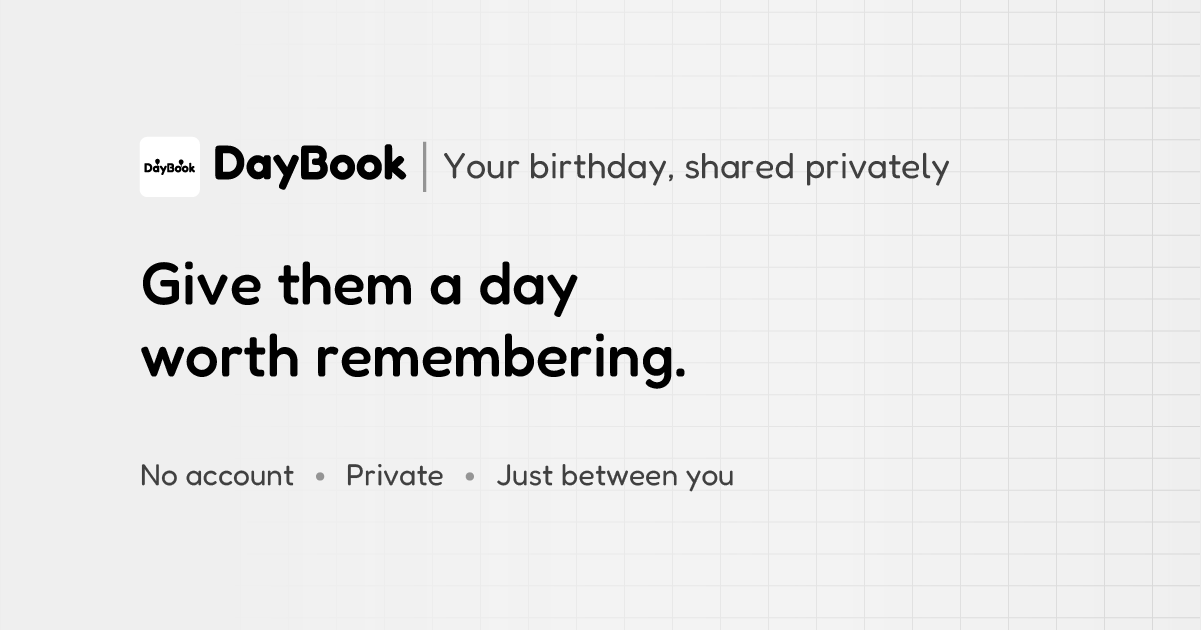
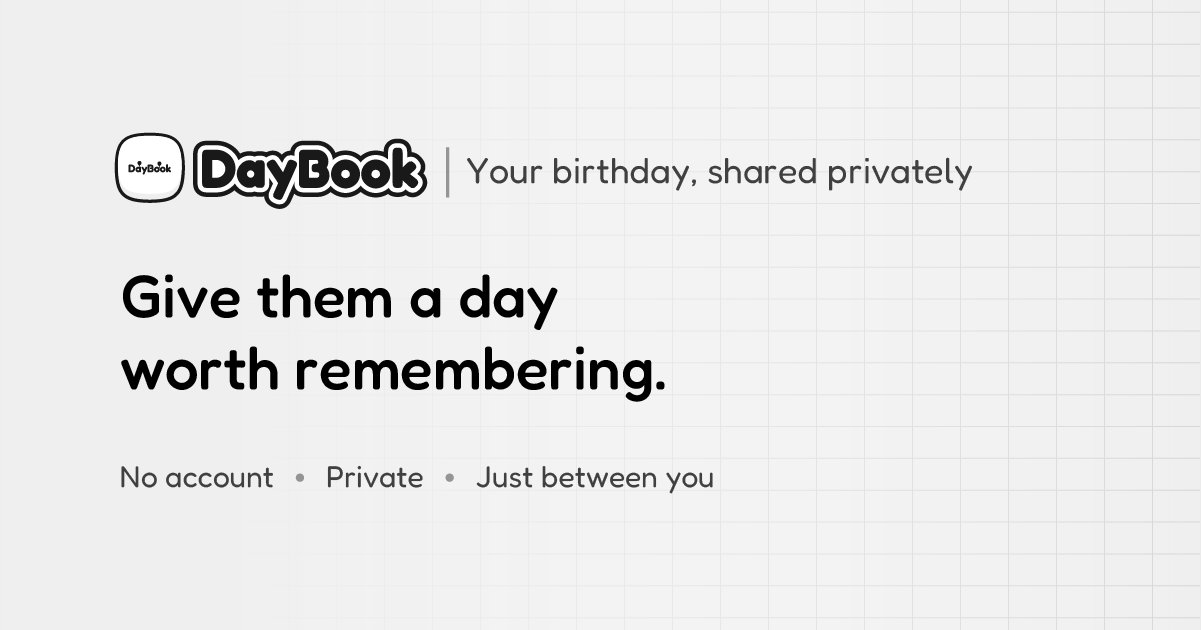
feat: update LogoIcon component with new design and improved SVG structure
refactor: simplify Footer component by removing unnecessary buttons and links

feat: add About navigation item and update PageLayout component

feat: enhance AboutScreen with Open Source section and GitHub link

feat: add skeleton loading state for Open Source section in AboutSkeleton

fix: improve ManageBirthdaysSkeleton layout with additional skeleton elements

style: apply smooth scrolling to html in global CSS

diff --git a/src/components/icons/logo-icon.tsx b/src/components/icons/logo-icon.tsx
@@ -5,52 +5,80 @@ export function LogoIcon({ className, ...props }: React.SVGProps<SVGSVGElement>)
 	return (
 		<svg
 			xmlns="http://www.w3.org/2000/svg"
-			viewBox="0 0 60 60"
-			width="60"
-			height="60"
-			className={cn("border-border/50 rounded-[8px] border shadow-md dark:border-none", className)}
+			viewBox="0 0 64 64"
+			width="64"
+			height="64"
+			className={cn("", className)}
 			{...props}
 		>
-			<rect fill="#fff" width="60" height="60" rx="7.76"></rect>
-			<g>
+			<defs>
+				<clipPath id="logo-clip-path">
+					<path
+						fill="none"
+						d="M62,32c-.19,10.62-1.25,19.15-6.15,23.85-4.7,4.9-13.23,6-23.85,6.15-10.62-.19-19.15-1.25-23.85-6.15C3.25,51.15,2.19,42.62,2,32,2.19,21.38,3.25,12.85,8.15,8.15,12.85,3.25,21.38,2.19,32,2c10.62.19,19.15,1.25,23.85,6.15C60.75,12.85,61.81,21.38,62,32Z"
+					></path>
+				</clipPath>
+			</defs>
+			<path
+				fill="#efefef"
+				d="M32,62.4c-11.06-.19-19.39-1.34-24.13-6.27C2.94,51.4,1.79,43.07,1.6,32,1.79,20.93,2.94,12.6,7.87,7.86,12.6,2.94,20.93,1.79,32,1.6c11.08.19,19.41,1.34,24.15,6.27C61.06,12.6,62.21,20.93,62.4,32c-.19,11.08-1.34,19.41-6.27,24.15C51.4,61.06,43.07,62.21,32,62.4h0Z"
+			></path>
+			<path
+				fill="#191919"
+				d="M32,2c10.62.19,19.15,1.25,23.85,6.15,4.9,4.7,6,13.23,6.15,23.85-.19,10.62-1.25,19.15-6.15,23.85-4.7,4.9-13.23,6-23.85,6.15-10.62-.19-19.15-1.25-23.85-6.15C3.25,51.15,2.19,42.62,2,32,2.19,21.38,3.25,12.85,8.15,8.15,12.85,3.25,21.38,2.19,32,2m0-.8h0C20.83,1.39,12.4,2.56,7.57,7.59,2.56,12.4,1.39,20.83,1.2,32,1.39,43.17,2.56,51.6,7.59,56.43c4.81,5,13.24,6.18,24.4,6.37,11.18-.19,19.61-1.36,24.44-6.39,5-4.81,6.18-13.24,6.37-24.4-.19-11.18-1.36-19.61-6.39-24.44C51.6,2.56,43.17,1.39,32,1.2Z"
+			></path>
+			<g clipPath="url(#logo-clip-path)">
 				<path
-					d="M21.91,26.22a2.2,2.2,0,1,0-4.4,0,3.43,3.43,0,0,0,1.86,2.84l-.12.12a.19.19,0,0,0,0,.19.18.18,0,0,0,.16.1h.23c.5,1.22.24,1.5-.13,1.88a2,2,0,0,0-.6,1,.17.17,0,0,0,.12.21h0a.17.17,0,0,0,.17-.13,1.68,1.68,0,0,1,.51-.83c.46-.47.73-.89.25-2.12h.09a.15.15,0,0,0,.15-.1.17.17,0,0,0,0-.19l-.12-.12A3.46,3.46,0,0,0,21.91,26.22ZM19.71,25a1.19,1.19,0,0,0-1.19,1.19.17.17,0,0,1-.17.18.18.18,0,0,1-.17-.18,1.55,1.55,0,0,1,1.53-1.54.18.18,0,0,1,.17.18A.18.18,0,0,1,19.71,25Z"
-					transform="translate(-2 -2)"
+					fill="#fff"
+					d="M62,26.38C61.81,37,60.75,45.53,55.85,50.23c-4.7,4.89-13.23,6-23.85,6.15-10.62-.19-19.15-1.26-23.85-6.15C3.25,45.53,2.19,37,2,26.38,2.19,15.75,3.25,7.22,8.15,2.52c4.7-4.89,13.23-6,23.85-6.14,10.62.18,19.15,1.25,23.85,6.14C60.75,7.22,61.81,15.75,62,26.38Z"
 				></path>
 			</g>
-			<g>
+			<g id="BAL1">
 				<path
-					d="M45.59,26.87a2.2,2.2,0,1,0-4.4,0,3.45,3.45,0,0,0,1.86,2.83l-.12.13a.17.17,0,0,0,0,.18.17.17,0,0,0,.16.11h.23c.5,1.22.24,1.5-.13,1.88a1.91,1.91,0,0,0-.6,1,.16.16,0,0,0,.12.2h0a.18.18,0,0,0,.17-.13,1.6,1.6,0,0,1,.51-.83c.46-.48.73-.9.25-2.12h.09a.17.17,0,0,0,.16-.11.17.17,0,0,0,0-.18l-.12-.13A3.43,3.43,0,0,0,45.59,26.87Zm-2.2-1.2a1.2,1.2,0,0,0-1.19,1.2A.17.17,0,0,1,42,27a.17.17,0,0,1-.17-.17,1.53,1.53,0,0,1,1.52-1.54.17.17,0,0,1,.17.17A.18.18,0,0,1,43.39,25.67Z"
-					transform="translate(-2 -2)"
+					fill="#191919"
+					d="M24,27.44a1.74,1.74,0,1,0-3.48,0A2.73,2.73,0,0,0,22,29.68l-.09.1a.12.12,0,0,0,0,.14A.14.14,0,0,0,22,30h.18c.4,1,.19,1.18-.1,1.48a1.63,1.63,0,0,0-.48.78.14.14,0,0,0,.1.16h0a.12.12,0,0,0,.13-.11,1.4,1.4,0,0,1,.41-.65c.36-.38.58-.71.2-1.67h.07a.14.14,0,0,0,.12-.09.12.12,0,0,0,0-.14l-.09-.1A2.73,2.73,0,0,0,24,27.44ZM22.3,26.5a.94.94,0,0,0-.94.94.13.13,0,1,1-.26,0,1.21,1.21,0,0,1,1.2-1.21.13.13,0,0,1,.13.13A.13.13,0,0,1,22.3,26.5Z"
+				></path>
+			</g>
+			<g id="BAL2">
+				<path
+					fill="#191919"
+					d="M42.73,28a1.74,1.74,0,1,0-3.48,0,2.73,2.73,0,0,0,1.47,2.24l-.09.09a.14.14,0,0,0,0,.15.13.13,0,0,0,.12.08h.18c.4,1,.19,1.19-.1,1.49a1.51,1.51,0,0,0-.47.78.13.13,0,0,0,.09.16h0a.12.12,0,0,0,.13-.1,1.35,1.35,0,0,1,.41-.65c.36-.38.58-.71.2-1.68h.07a.13.13,0,0,0,.12-.08.14.14,0,0,0,0-.15l-.09-.09A2.73,2.73,0,0,0,42.73,28ZM41,27a1,1,0,0,0-.94.95.13.13,0,0,1-.26,0A1.21,1.21,0,0,1,41,26.73a.13.13,0,0,1,.13.14A.13.13,0,0,1,41,27Z"
 				></path>
 			</g>
 			<path
-				d="M7.84,37.26a1.17,1.17,0,0,1-.64-.14.6.6,0,0,1-.26-.37,1.86,1.86,0,0,1-.06-.48v-7a2.31,2.31,0,0,1,0-.46.62.62,0,0,1,.25-.37,1.2,1.2,0,0,1,.67-.12h2.28a4.37,4.37,0,0,1,1.7.33,4.31,4.31,0,0,1,1.38.93A4.36,4.36,0,0,1,14.13,31a4.82,4.82,0,0,1,0,3.53,4.29,4.29,0,0,1-2.3,2.38,4.28,4.28,0,0,1-1.73.35Zm1-2h1.33A2.4,2.4,0,0,0,11.36,35a2.34,2.34,0,0,0,.85-.89,2.86,2.86,0,0,0,0-2.59,2.26,2.26,0,0,0-.85-.91,2.44,2.44,0,0,0-1.24-.32H8.8Z"
-				transform="translate(-2 -2)"
+				id="D"
+				fill="#191919"
+				d="M12.93,36.15a1,1,0,0,1-.51-.11.53.53,0,0,1-.2-.29,1.52,1.52,0,0,1-.05-.38V29.86a2.21,2.21,0,0,1,0-.37.53.53,0,0,1,.2-.29.94.94,0,0,1,.53-.1h1.8a3.37,3.37,0,0,1,3.16,2.11,3.65,3.65,0,0,1,.26,1.38A3.69,3.69,0,0,1,17.89,34a3.6,3.6,0,0,1-.73,1.13,3.48,3.48,0,0,1-1.09.75,3.37,3.37,0,0,1-1.36.27Zm.76-1.54h1.05a1.83,1.83,0,0,0,1.64-1,2,2,0,0,0,.25-1,2.07,2.07,0,0,0-.25-1,1.83,1.83,0,0,0-.67-.71,1.89,1.89,0,0,0-1-.26h-1Z"
 			></path>
 			<path
-				d="M20.49,37.24a1.17,1.17,0,0,1-.69-.16.47.47,0,0,1-.22-.41l.13-.22a1.53,1.53,0,0,1-.29.32,2.32,2.32,0,0,1-.57.33,2.11,2.11,0,0,1-.84.14,2.49,2.49,0,0,1-1.1-.25,3,3,0,0,1-.93-.71,3.67,3.67,0,0,1-.65-1A3.11,3.11,0,0,1,15.09,34a3.06,3.06,0,0,1,.24-1.2,3.57,3.57,0,0,1,.65-1,3.41,3.41,0,0,1,.93-.69,2.5,2.5,0,0,1,1.1-.26,2.08,2.08,0,0,1,.8.14,2.2,2.2,0,0,1,.55.31,1.81,1.81,0,0,1,.34.34l-.12-.17A.56.56,0,0,1,19.8,31a1.2,1.2,0,0,1,.71-.16,1.18,1.18,0,0,1,.65.14.58.58,0,0,1,.24.37,2.56,2.56,0,0,1,0,.49v4.4a2.52,2.52,0,0,1,0,.48.56.56,0,0,1-.24.36A1.25,1.25,0,0,1,20.49,37.24Zm-2.21-1.9a1.14,1.14,0,0,0,.61-.17,1.39,1.39,0,0,0,.43-.47,1.42,1.42,0,0,0,0-1.31,1.21,1.21,0,0,0-.45-.45,1.18,1.18,0,0,0-.62-.17,1.19,1.19,0,0,0-.64.18,1.24,1.24,0,0,0-.45.46,1.36,1.36,0,0,0-.17.67,1.24,1.24,0,0,0,.17.63,1.3,1.3,0,0,0,.47.46A1.31,1.31,0,0,0,18.28,35.34Z"
-				transform="translate(-2 -2)"
+				id="A"
+				fill="#191919"
+				d="M22.92,36.14a.91.91,0,0,1-.55-.13.36.36,0,0,1-.17-.32l.1-.18a1.21,1.21,0,0,1-.23.25,1.37,1.37,0,0,1-.45.26,1.62,1.62,0,0,1-.66.12,2,2,0,0,1-.87-.2,2.5,2.5,0,0,1-.74-.56,3.08,3.08,0,0,1-.51-.81,2.65,2.65,0,0,1-.19-1,2.47,2.47,0,0,1,.19-.94,2.69,2.69,0,0,1,.52-.8,2.42,2.42,0,0,1,.73-.55,1.88,1.88,0,0,1,.87-.2,1.67,1.67,0,0,1,.63.1,1.74,1.74,0,0,1,.43.25,1.37,1.37,0,0,1,.27.27l-.09-.14a.45.45,0,0,1,.17-.37,1,1,0,0,1,.56-.12.84.84,0,0,1,.51.11.41.41,0,0,1,.19.29,1.58,1.58,0,0,1,0,.38v3.48a1.64,1.64,0,0,1,0,.38.39.39,0,0,1-.19.28A1,1,0,0,1,22.92,36.14Zm-1.75-1.5a.87.87,0,0,0,.48-.14,1,1,0,0,0,.34-.37,1,1,0,0,0,.13-.51A1,1,0,0,0,22,33.1a1,1,0,0,0-.35-.36.92.92,0,0,0-.49-.13.94.94,0,0,0-.5.14,1,1,0,0,0-.36.36,1,1,0,0,0-.14.53,1,1,0,0,0,.14.5,1,1,0,0,0,.88.5Z"
 			></path>
 			<path
-				d="M28.8,31.43a1,1,0,0,0-.59-.51,1.19,1.19,0,0,0-.78-.11,1,1,0,0,0-.47.61l-1.18,2.65L24,31.28a1.07,1.07,0,0,0-.55-.51,1.14,1.14,0,0,0-.76.24q-.46.3-.51.57a1.07,1.07,0,0,0,.23.72l2.49,3.82-1.09,2.45a1.14,1.14,0,0,0-.13.76q.08.27.6.51A1.08,1.08,0,0,0,25,40c.17-.06.33-.26.47-.6l3.19-7.22A1.13,1.13,0,0,0,28.8,31.43Z"
-				transform="translate(-2 -2)"
+				id="Y"
+				fill="#191919"
+				d="M29.47,31.55c0-.14-.2-.27-.46-.4a.93.93,0,0,0-.62-.09.81.81,0,0,0-.37.48l-.93,2.1-1.43-2.21a.83.83,0,0,0-.43-.4.89.89,0,0,0-.6.19c-.24.15-.38.3-.4.45a.81.81,0,0,0,.18.57l2,3-.86,1.94a.91.91,0,0,0-.1.59c0,.15.2.28.47.41a.88.88,0,0,0,.61.1c.14,0,.26-.21.37-.48l2.52-5.69A.84.84,0,0,0,29.47,31.55Z"
 			></path>
 			<path
-				d="M30.45,37.26a1.15,1.15,0,0,1-.66-.15.64.64,0,0,1-.25-.38,2,2,0,0,1-.05-.5V29.31a1.86,1.86,0,0,1,.05-.48.62.62,0,0,1,.25-.37,1.16,1.16,0,0,1,.67-.15H33.6a2.49,2.49,0,0,1,1.34.37,2.57,2.57,0,0,1,.92,1,2.39,2.39,0,0,1,.33,1.29,2.09,2.09,0,0,1,0,.56A2.47,2.47,0,0,1,36,32a2.59,2.59,0,0,1-.3.46,2,2,0,0,1,.44.56,3.44,3.44,0,0,1,.28.69,3,3,0,0,1,.09.73,3,3,0,0,1-.81,2,2.73,2.73,0,0,1-.87.59,2.68,2.68,0,0,1-1.06.22Zm1-1.93H33.6a1.2,1.2,0,0,0,.45-.09.66.66,0,0,0,.36-.3,1.23,1.23,0,0,0,.14-.63,1.33,1.33,0,0,0-.06-.44.71.71,0,0,0-.18-.28.58.58,0,0,0-.24-.14,1.47,1.47,0,0,0-.29-.05h-.66a.84.84,0,0,1-.61-.19.91.91,0,0,1-.18-.64.83.83,0,0,1,.2-.63.91.91,0,0,1,.63-.18h.63a.73.73,0,0,0,.25-.08.41.41,0,0,0,.17-.21.9.9,0,0,0,.07-.4.79.79,0,0,0-.21-.62,1.23,1.23,0,0,0-.77-.19H31.42Z"
-				transform="translate(-2 -2)"
+				id="B"
+				fill="#191919"
+				d="M30.78,36.15a.87.87,0,0,1-.52-.12.42.42,0,0,1-.2-.3,1.61,1.61,0,0,1,0-.39V29.88a1.53,1.53,0,0,1,0-.38.42.42,0,0,1,.2-.29.88.88,0,0,1,.53-.12h2.47a2,2,0,0,1,1.06.29,2.1,2.1,0,0,1,.73.75,2,2,0,0,1,.26,1,1.64,1.64,0,0,1,0,.44,1.38,1.38,0,0,1-.15.4,2.06,2.06,0,0,1-.23.37,1.7,1.7,0,0,1,.35.45,2.52,2.52,0,0,1,.21.54,2.18,2.18,0,0,1,.08.57,2.5,2.5,0,0,1-.18.87,2,2,0,0,1-.47.71,2.18,2.18,0,0,1-.68.47,2.14,2.14,0,0,1-.84.17Zm.76-1.52h1.72a1.15,1.15,0,0,0,.36-.07.54.54,0,0,0,.28-.24,1,1,0,0,0,.11-.5,1.13,1.13,0,0,0,0-.35.54.54,0,0,0-.13-.21.47.47,0,0,0-.2-.12l-.23,0h-.52A.66.66,0,0,1,32.4,33a.76.76,0,0,1-.14-.51.68.68,0,0,1,.16-.5.73.73,0,0,1,.49-.14h.5a.34.34,0,0,0,.2-.06.45.45,0,0,0,.14-.16.93.93,0,0,0,0-.32.63.63,0,0,0-.17-.49.92.92,0,0,0-.61-.15H31.54Z"
 			></path>
 			<path
-				d="M40.39,37.36a3.11,3.11,0,0,1-1.18-.24,3.44,3.44,0,0,1-1.07-.67,3.18,3.18,0,0,1-.76-1,3.11,3.11,0,0,1-.29-1.35,3.22,3.22,0,0,1,.26-1.28,3.17,3.17,0,0,1,.72-1.05,3.43,3.43,0,0,1,1-.73,3.12,3.12,0,0,1,1.26-.26,3.18,3.18,0,0,1,1.65.44,3.31,3.31,0,0,1,1.18,1.2,3.18,3.18,0,0,1,.44,1.67,3.15,3.15,0,0,1-1,2.43,3.44,3.44,0,0,1-1.05.66A3.36,3.36,0,0,1,40.39,37.36Zm0-1.93a1.45,1.45,0,0,0,.62-.15,1.46,1.46,0,0,0,.53-.46,1.38,1.38,0,0,0,.21-.78,1.42,1.42,0,0,0-.17-.72,1.33,1.33,0,0,0-.49-.48,1.49,1.49,0,0,0-.71-.17,1.28,1.28,0,0,0-.68.18,1.33,1.33,0,0,0-.48.49,1.42,1.42,0,0,0-.19.71,1.34,1.34,0,0,0,.21.77,1.23,1.23,0,0,0,.53.46A1.45,1.45,0,0,0,40.37,35.43Z"
-				transform="translate(-2 -2)"
+				id="O1"
+				fill="#191919"
+				d="M38.62,36.23a2.38,2.38,0,0,1-.93-.19,2.65,2.65,0,0,1-.84-.53,2.38,2.38,0,0,1-.61-.82A2.45,2.45,0,0,1,36,33.63a2.69,2.69,0,0,1,.2-1,2.92,2.92,0,0,1,.57-.83,2.75,2.75,0,0,1,.82-.57,2.63,2.63,0,0,1,2.3.14,2.65,2.65,0,0,1,.93.95A2.73,2.73,0,0,1,41,34.71a2.49,2.49,0,0,1-.6.82,2.63,2.63,0,0,1-1.75.7Zm0-1.52a1.11,1.11,0,0,0,.49-.12,1.07,1.07,0,0,0,.42-.37,1,1,0,0,0,.17-.61,1,1,0,0,0-.14-.57,1,1,0,0,0-.38-.37,1.15,1.15,0,0,0-1.1,0,1,1,0,0,0-.38.39,1,1,0,0,0-.14.56,1.09,1.09,0,0,0,.16.61,1,1,0,0,0,.42.36A1.07,1.07,0,0,0,38.6,34.71Z"
 			></path>
 			<path
-				d="M47.45,37.36a3.11,3.11,0,0,1-1.18-.24,3.44,3.44,0,0,1-1.07-.67,3.18,3.18,0,0,1-.76-1,3.11,3.11,0,0,1-.29-1.35,3.22,3.22,0,0,1,.26-1.28,3.3,3.3,0,0,1,.71-1.05A3.61,3.61,0,0,1,46.17,31a3.12,3.12,0,0,1,1.26-.26,3.23,3.23,0,0,1,1.65.44,3.31,3.31,0,0,1,1.18,1.2,3.18,3.18,0,0,1,.44,1.67,3.15,3.15,0,0,1-1,2.43,3.44,3.44,0,0,1-1,.66A3.36,3.36,0,0,1,47.45,37.36Zm0-1.93a1.45,1.45,0,0,0,.62-.15,1.46,1.46,0,0,0,.53-.46,1.38,1.38,0,0,0,.21-.78,1.53,1.53,0,0,0-.17-.72,1.33,1.33,0,0,0-.49-.48,1.53,1.53,0,0,0-.72-.17,1.27,1.27,0,0,0-.67.18,1.4,1.4,0,0,0-.67,1.2,1.34,1.34,0,0,0,.21.77,1.23,1.23,0,0,0,.53.46A1.41,1.41,0,0,0,47.43,35.43Z"
-				transform="translate(-2 -2)"
+				id="O2"
+				fill="#191919"
+				d="M44.2,36.23a2.39,2.39,0,0,1-.94-.19,2.65,2.65,0,0,1-.84-.53,2.51,2.51,0,0,1-.61-.82,2.45,2.45,0,0,1-.22-1.06,2.69,2.69,0,0,1,.2-1,2.92,2.92,0,0,1,.57-.83,2.75,2.75,0,0,1,.82-.57,2.55,2.55,0,0,1,1-.2,2.5,2.5,0,0,1,1.3.34,2.65,2.65,0,0,1,.93.95,2.46,2.46,0,0,1,.35,1.32,2.53,2.53,0,0,1-.22,1.09,2.49,2.49,0,0,1-.6.82,2.52,2.52,0,0,1-.83.52A2.46,2.46,0,0,1,44.2,36.23Zm0-1.52a1.14,1.14,0,0,0,.49-.12,1.11,1.11,0,0,0,.41-.37,1,1,0,0,0,.17-.61,1,1,0,0,0-.14-.57,1,1,0,0,0-.38-.37,1,1,0,0,0-.56-.14,1,1,0,0,0-.92.53,1.13,1.13,0,0,0-.14.56,1.09,1.09,0,0,0,.16.61,1,1,0,0,0,.42.36A1.11,1.11,0,0,0,44.18,34.71Z"
 			></path>
 			<path
-				d="M56.7,35.52a1.08,1.08,0,0,1,.42.66,1,1,0,0,1-.34.72,1.64,1.64,0,0,1-.49.39.53.53,0,0,1-.41,0A1.72,1.72,0,0,1,55.4,37l-2-1.76v1.1a2.29,2.29,0,0,1,0,.47.54.54,0,0,1-.24.35,1.24,1.24,0,0,1-.67.14,1.2,1.2,0,0,1-.66-.14.56.56,0,0,1-.24-.35,2.44,2.44,0,0,1-.05-.48V28.93a2.44,2.44,0,0,1,.05-.48.61.61,0,0,1,.25-.36,1.23,1.23,0,0,1,.67-.13,1.19,1.19,0,0,1,.65.13.56.56,0,0,1,.24.36,2.49,2.49,0,0,1,0,.49v3.85l1.42-1.38a1.56,1.56,0,0,1,.47-.34.61.61,0,0,1,.44,0,1.2,1.2,0,0,1,.45.35,1.14,1.14,0,0,1,.4.72,1.14,1.14,0,0,1-.4.66L54.83,34Z"
-				transform="translate(-2 -2)"
+				id="K"
+				fill="#191919"
+				d="M51.5,34.78a.81.81,0,0,1,.32.52.8.8,0,0,1-.26.57,1.45,1.45,0,0,1-.39.3.36.36,0,0,1-.32,0,1.72,1.72,0,0,1-.38-.26L48.9,34.53v.86a1.53,1.53,0,0,1,0,.38.39.39,0,0,1-.19.27,1.28,1.28,0,0,1-1,0,.39.39,0,0,1-.19-.28,1.53,1.53,0,0,1,0-.38V29.57a1.45,1.45,0,0,1,0-.37.48.48,0,0,1,.2-.29,1,1,0,0,1,.52-.1.93.93,0,0,1,.51.1.43.43,0,0,1,.19.29,1.51,1.51,0,0,1,0,.39v3L50,31.53a1.26,1.26,0,0,1,.37-.26.47.47,0,0,1,.35,0,1,1,0,0,1,.36.27,1,1,0,0,1,.31.57.89.89,0,0,1-.31.52l-1.08,1Z"
 			></path>
 		</svg>
 	);

diff --git a/src/components/layout/footer.tsx b/src/components/layout/footer.tsx
@@ -1,49 +1,26 @@
-import { GithubIcon } from "@/components/icons/github-icon";
 import { AnimateIcon } from "@/components/ui/animate-icon";
 import { BotIcon } from "@/components/ui/animated-icons/bot-icon";
-import { Button } from "@/components/ui/button";
 import { VisitorTracker } from "@/components/visitor-tracker";
-import { APP_INFO } from "@/constants/app-info";
-import { Link } from "react-router-dom";
 
 export function Footer() {
 	return (
 		<footer className="text-muted-foreground mt-auto flex w-full flex-col items-center gap-3 text-sm sm:flex-row sm:justify-between">
 			<VisitorTracker className="justify-center" />
 
-			<div className="flex flex-1 flex-col items-center justify-end gap-1 sm:items-end">
-				<div className="flex flex-wrap items-center justify-center sm:justify-end">
-					<Button variant="ghost" size="sm" asChild>
-						<a
-							href="https://github.com/nmrisrl11/day-book-app"
-							target="_blank"
-							rel="noopener noreferrer"
-							title="View GitHub Repository"
-						>
-							<GithubIcon aria-hidden="true" className="mr-1 h-4 w-4" />
-							GitHub Repository
-						</a>
-					</Button>
-					<Button variant="ghost" size="sm" asChild>
-						<Link to="/about">About {APP_INFO.name}</Link>
-					</Button>
-				</div>
-
-				<span className="text-[0.8rem]">
-					Developed by:
-					<AnimateIcon animateOnHover asChild>
-						<a
-							href="https://www.nmrisrl.dev/"
-							target="_blank"
-							rel="noopener noreferrer"
-							title="Visit Developer's Website"
-							className="ml-1 inline-flex items-center font-medium transition-colors hover:text-slate-800 dark:hover:text-slate-200"
-						>
-							Nomer with <BotIcon className="ml-1 h-4 w-4" />
-						</a>
-					</AnimateIcon>
-				</span>
-			</div>
+			<span className="text-[0.8rem]">
+				Developed by:
+				<AnimateIcon animateOnHover asChild>
+					<a
+						href="https://www.nmrisrl.dev/"
+						target="_blank"
+						rel="noopener noreferrer"
+						title="Visit Developer's Website"
+						className="ml-1 inline-flex items-center font-medium transition-colors hover:text-slate-800 dark:hover:text-slate-200"
+					>
+						Nomer with <BotIcon className="ml-1 h-4 w-4" />
+					</a>
+				</AnimateIcon>
+			</span>
 		</footer>
 	);
 }

diff --git a/src/features/about/about-screen.tsx b/src/features/about/about-screen.tsx
@@ -1,3 +1,4 @@
+import { GithubIcon } from "@/components/icons/github-icon";
 import { LogoIcon } from "@/components/icons/logo-icon";
 import { LineNav, type LineNavItem } from "@/components/line-nav";
 import { MobileLineNav } from "@/components/mobile-line-nav";
@@ -25,6 +26,7 @@ export function AboutScreen() {
 	const navItems: LineNavItem[] = [
 		{ id: "overview", label: "Overview" },
 		{ id: "features", label: "Features" },
+		{ id: "open-source", label: "Open Source" },
 		{
 			id: "whats-new",
 			label: "What's New",
@@ -38,6 +40,7 @@ export function AboutScreen() {
 	const trackedIds = [
 		"overview",
 		"features",
+		"open-source",
 		"whats-new",
 		...visibleReleases.map((r) => `changelog-${r.version}`),
 	];
@@ -122,6 +125,35 @@ export function AboutScreen() {
 						your IP address into an irreversible hash (SHA-256) before it ever touches our servers.
 						No Personally Identifiable Information (PII) is ever saved.
 					</p>
+				</section>
+
+				{/* Open Source Section */}
+				<section
+					id="open-source"
+					className="bg-card border-border flex scroll-mt-24 flex-col gap-4 rounded-3xl border p-6 sm:p-8"
+				>
+					<div className="flex items-center gap-3">
+						<div className="bg-primary/10 text-primary flex h-10 w-10 shrink-0 items-center justify-center rounded-full">
+							<GithubIcon className="h-5 w-5" />
+						</div>
+						<h2 className="text-foreground text-2xl font-semibold">Open Source</h2>
+					</div>
+					<p className="text-muted-foreground text-base leading-relaxed">
+						{APP_INFO.name} is a completely open-source project. We believe in transparent,
+						local-first architecture where you own your data. Developers and privacy advocates are
+						highly encouraged to explore the codebase, understand how data is stored, and contribute
+						to the ecosystem!
+					</p>
+					<Button variant="outline" className="mt-2 w-fit" asChild>
+						<a
+							href="https://github.com/nmrisrl11/day-book-app"
+							target="_blank"
+							rel="noopener noreferrer"
+						>
+							<GithubIcon aria-hidden="true" className="mr-2 h-4 w-4" />
+							View Repository on GitHub
+						</a>
+					</Button>
 				</section>
 
 				{/* Changelog Section */}

diff --git a/src/App.tsx b/src/App.tsx
@@ -2,7 +2,7 @@ import { bind, setEnabled, setVolume } from "cuelume";
 import { GooeyToaster } from "goey-toast";
 import { NuqsAdapter } from "nuqs/adapters/react";
 import { lazy, Suspense, useEffect } from "react";
-import { BrowserRouter, Route, Routes } from "react-router-dom";
+import { BrowserRouter, Route, Routes, useLocation } from "react-router-dom";
 import { Footer } from "./components/layout/footer";
 import { PageLayout } from "./components/layout/page-layout";
 import { PWAPrompt } from "./components/pwa-prompt";
@@ -80,8 +80,17 @@ function App() {
 		return () => window.removeEventListener("keydown", handleKeyDown);
 	}, []);
 
+	function ScrollToTop() {
+		const { pathname } = useLocation();
+		useEffect(() => {
+			window.scrollTo(0, 0);
+		}, [pathname]);
+		return null;
+	}
+
 	return (
 		<BrowserRouter>
+			<ScrollToTop />
 			<NuqsAdapter>
 				<PageLayout>
 					<Routes>

diff --git a/src/features/about/components/about-skeleton.tsx b/src/features/about/components/about-skeleton.tsx
@@ -44,6 +44,16 @@ export function AboutSkeleton() {
 					<Skeleton className="h-20 w-full rounded-md" />
 				</section>
 
+				{/* Open Source Section */}
+				<section className="bg-card border-border flex flex-col gap-4 rounded-3xl border p-6 sm:p-8">
+					<div className="flex items-center gap-3">
+						<Skeleton className="h-10 w-10 rounded-full" />
+						<Skeleton className="h-8 w-40 rounded-md" />
+					</div>
+					<Skeleton className="h-20 w-full rounded-md" />
+					<Skeleton className="mt-2 h-10 w-64 rounded-md" />
+				</section>
+
 				{/* Changelog Section */}
 				<section className="flex flex-col gap-8">
 					<Skeleton className="h-8 w-40 rounded-md" />

diff --git a/src/features/management/components/manage-birthdays-skeleton.tsx b/src/features/management/components/manage-birthdays-skeleton.tsx
@@ -19,9 +19,14 @@ export function ManageBirthdaysSkeleton() {
 					<Skeleton className="h-8 w-full rounded-lg sm:flex-1" />
 					<div className="flex flex-wrap items-center gap-2">
 						<Skeleton className="h-8 w-32 rounded-lg" />
+						<Skeleton className="h-8 w-32 rounded-lg" />
 						<Skeleton className="h-8 w-40 rounded-lg" />
-						<Skeleton className="h-8 w-10 rounded-lg" />
 					</div>
+				</div>
+
+				<div className="flex items-center justify-between px-1">
+					<Skeleton className="h-9 w-20 rounded-lg" />
+					<Skeleton className="h-9 w-15 rounded-lg" />
 				</div>
 
 				{/* List Items */}

diff --git a/src/components/layout/page-layout.tsx b/src/components/layout/page-layout.tsx
@@ -1,6 +1,6 @@
 import { Logo } from "@/components/icons/logo";
 import { Button } from "@/components/ui/button";
-import { BookUserIcon, SettingsIcon } from "lucide-react";
+import { BookUserIcon, InfoIcon, SettingsIcon } from "lucide-react";
 import React from "react";
 import { Link, useLocation } from "react-router-dom";
 
@@ -9,6 +9,7 @@ interface PageLayoutProps {
 }
 
 const NAV_ITEMS = [
+	{ name: "About", path: "/about", icon: InfoIcon, isIcon: true },
 	{ name: "Birthdays", path: "/manage", icon: BookUserIcon },
 	{ name: "Settings", path: "/settings", icon: SettingsIcon, isIcon: true },
 ];

diff --git a/src/index.css b/src/index.css
@@ -153,7 +153,7 @@
 	}
 
 	html {
-		@apply font-sans;
+		@apply scroll-smooth font-sans;
 	}
 
 	button:not(:disabled),

diff --git a/PENDING_CHANGES.md b/PENDING_CHANGES.md
@@ -2,12 +2,17 @@
 
 ## Added
 
+- **Open Source Section** — Added a dedicated Open Source section to the About page and moved the GitHub link from the footer to the main navigation for better discoverability.
 - **Offline Status Notifications** — The app will now instantly notify you with a beautiful toast when you lose connection, and celebrate when you are back online.
 - **iOS PWA Install Instructions** — iPhone and iPad users will now receive a helpful, tailored prompt instructing them exactly how to install DayBook to their home screen using the Share menu.
 - **"Me" Relationship** — Added "Me" to the relationship options so users can easily track their own birthdays.
 - **Days Until Indicator** — Upcoming birthdays now display precisely how many days are left (e.g., "Today", "Tomorrow", "In 4 days") alongside the age.
 
 ## Improved
+
+- **Smooth Navigation** — Clicking "About" from the footer now automatically scrolls you perfectly to the top of the page.
+- **In-Page Anchor Links** — Clicking sections in the "On this page" menu now uses a beautiful smooth-scroll animation instead of instantly jumping.
+- **Updated Logo** — Swapped out the old logo for a crisper, shadow-free updated design that integrates seamlessly with the About page.
 
 - **JSON Imports** — You can now preview, review duplicates, and hand-select which birthdays to import from a JSON file, matching the calendar import experience. Large imports are now significantly faster.
 - **Massive Performance Boosts** — The Manage Birthdays page and Import previews now use advanced virtualization. This means even if you have thousands of records, the app stays buttery smooth and lag-free.

diff --git a/CURRENT_STATE.md b/CURRENT_STATE.md
@@ -40,7 +40,7 @@ DayBook is a fully functional, local-first React application. While originally s
 - **Upcoming Birthdays**: Scrollable list of the next N birthdays (N is configurable in Settings), complete with "days until" indicators.
 - **Birthdays by Month**: 12-month grid indicating which months have birthdays. Clickable month modals showing grouped celebrants.
 - **Empty States**: Beautiful empty states when no birthdays exist.
-- **About Page (Product Overview)**: A dedicated `/about` page detailing the app's features, privacy-first principles, and a user-friendly changelog. Features a dynamic "Line Nav" table of contents that tracks scroll position on desktop and slides in as a mobile drawer via Framer Motion.
+- **About Page (Product Overview)**: A dedicated `/about` page detailing the app's features, privacy-first principles, open-source architecture, and a user-friendly changelog. Features a dynamic "Line Nav" table of contents that tracks scroll position on desktop and slides in as a mobile drawer via Framer Motion, with smooth scrolling behavior globally enabled.
 
 ### Settings & Customization (Beyond Original Scope)
 

diff --git a/README.md b/README.md
@@ -1,12 +1,16 @@
 # DayBook
 
 <div align="center">
-  <img src="public/favicon.svg" alt="DayBook Logo" width="120" />
+  <img src="public/og-image.png" alt="DayBook Cover" />
 </div>
 
-<div align="center">
-    DayBook is a stylish, lightweight, local-first app designed to help you remember the people you love by keeping track of their birthdays, relationships, and special notes. 🎉🎂
-</div>
+## Overview
+
+**DayBook** is a stylish, lightweight, local-first app designed to help you remember the people you love by keeping track of their birthdays, relationships, and special notes. 🎉🎂
+
+🔗 **Try it now**: [day-book-app.vercel.app](https://day-book-app.vercel.app)
+
+---
 
 ## Features
 
